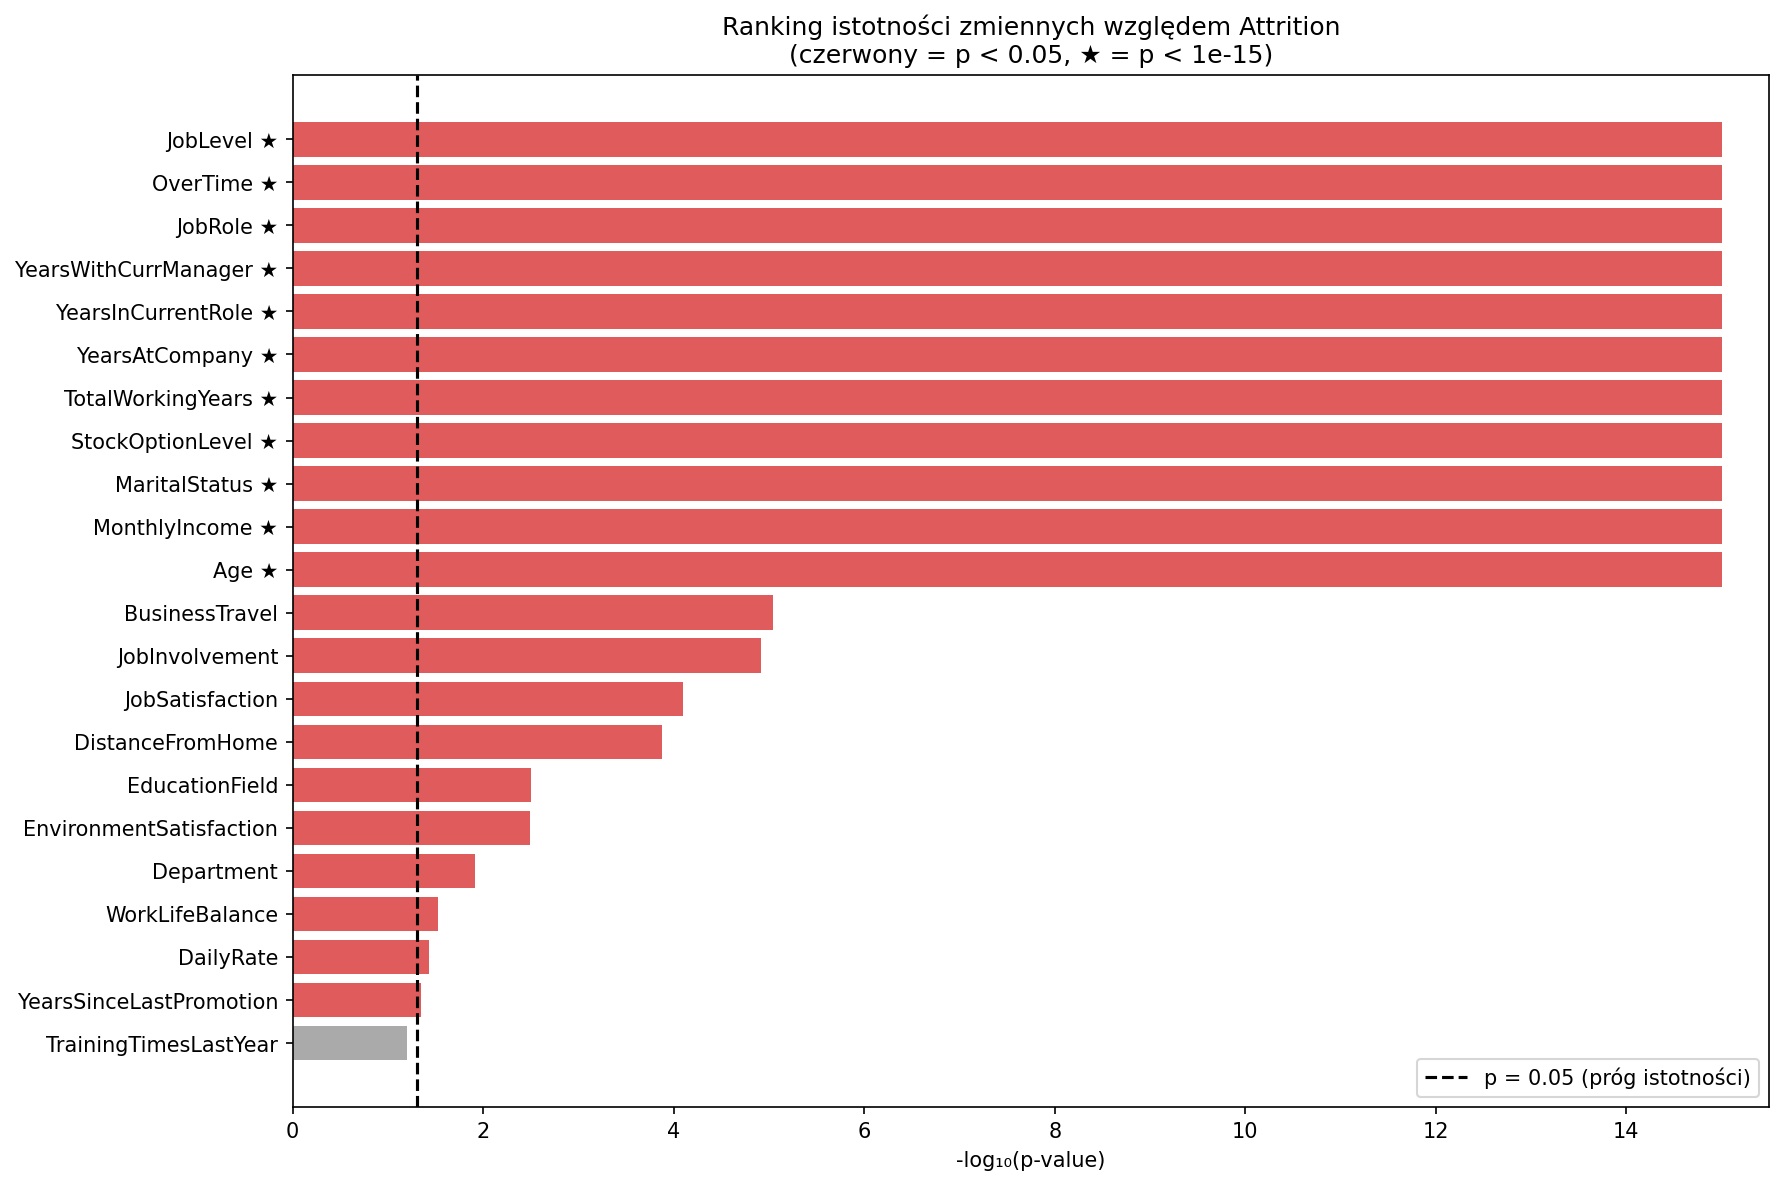
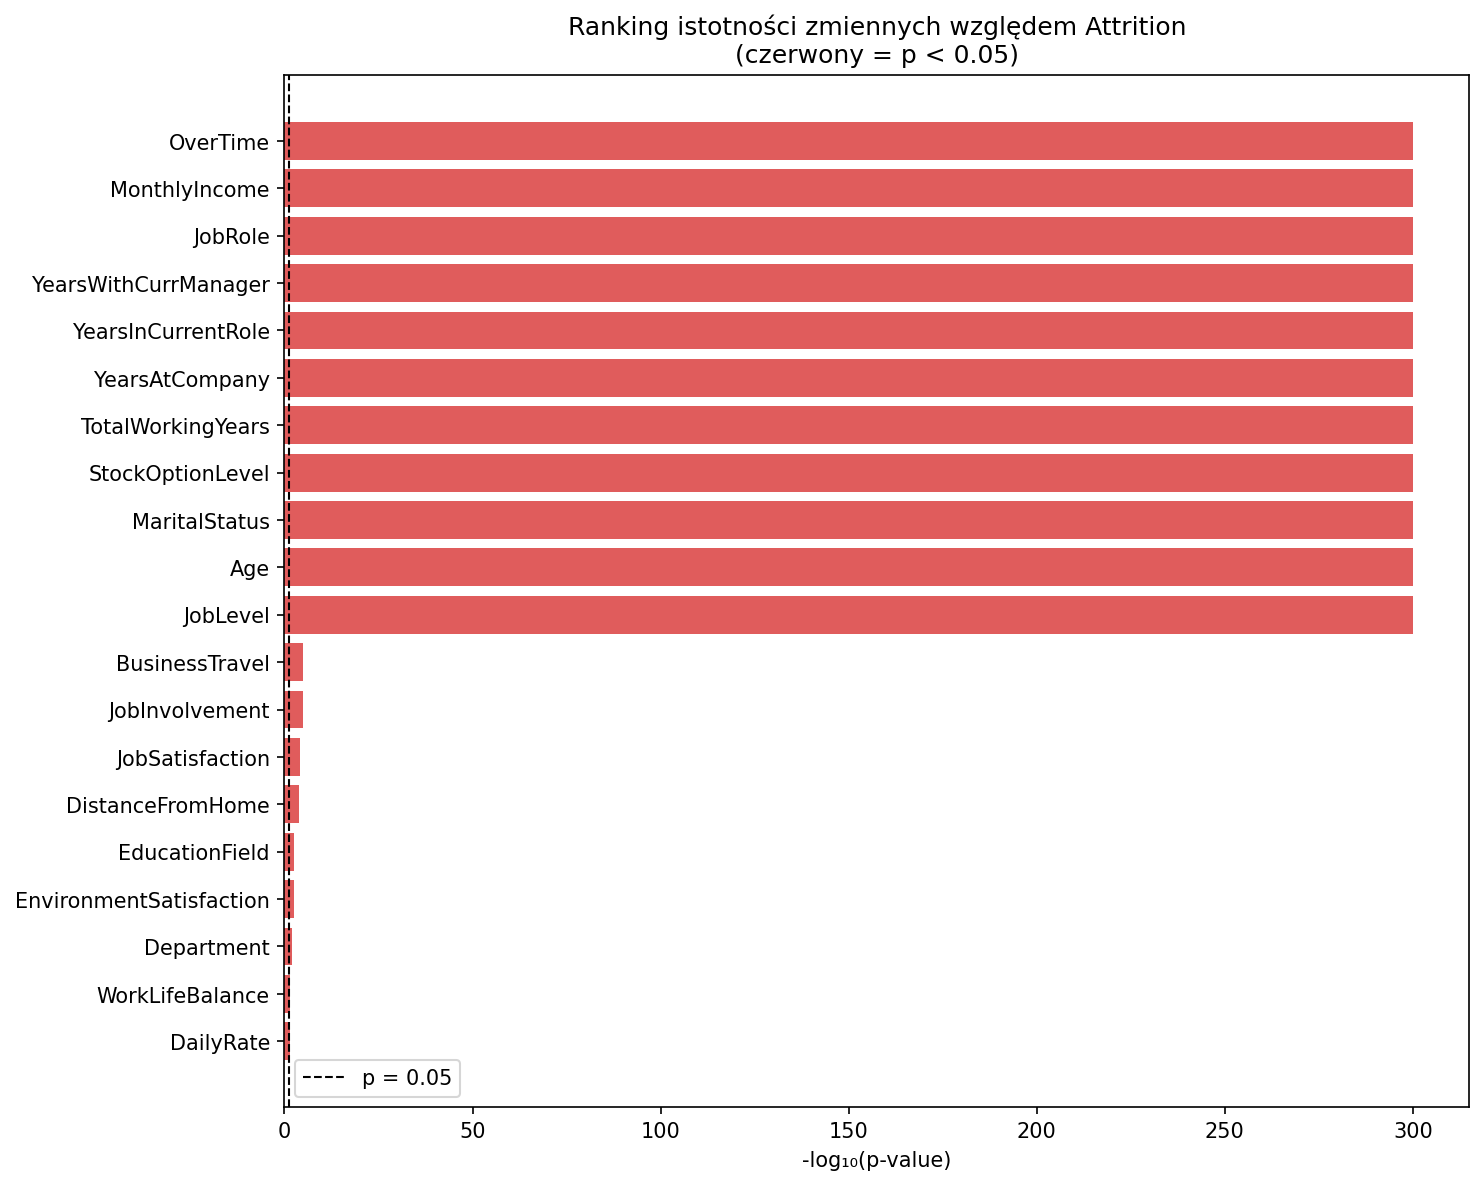
feat: implementacja Stage 3 — analiza korelacji
- Spearman heatmapa dla zmiennych numerycznych + top_correlations.csv
- Cramer's V heatmapa dla zmiennych kategorycznych
- Attrition rate wg top 6 grup (wybór data-driven wg Cramer's V)
- Parallel Coordinates z normalizacją MinMaxScaler
- Usunięto pairplot (zbyt złożony, redundantny)
- Zaktualizowano README i settings.py (DATA/CHARTS_STAGE3_DIR)

diff --git a/src/stage3_correlation/correlation_analysis.py b/src/stage3_correlation/correlation_analysis.py
@@ -1,30 +1,237 @@
 """
-Analiza korelacji i wizualizacje — Osoba 3
+Analiza korelacji i wizualizacje — Stage 3
 
 Zakres:
 - Macierz korelacji Spearmana dla zmiennych numerycznych:
-    * heatmapa interaktywna (Plotly)
+    * heatmapa
     * top 10 zmiennych najbardziej skorelowanych z Attrition
 - Korelacja między zmiennymi kategorycznymi:
     * Cramer's V — heatmapa asocjacji
-- Scatter matrix (scatter_matrix / pair plot) dla wybranych kluczowych zmiennych,
+- Scatter matrix (pair plot) dla top zmiennych numerycznych,
   z kolorowaniem wg Attrition
 - Parallel Coordinates — wizualizacja profili pracowników odchodzących vs pozostających
 - Analiza Attrition rate wg grup:
     * wg Department, JobRole, MaritalStatus, OverTime, BusinessTravel
     * wykresy słupkowe z % odejść
 
-Wejście: oczyszczony df z data_preprocessing.clean_data()
-Wyjście: interaktywne wykresy Plotly
-
-Wskazówka: do korelacji z Attrition zakoduj ją binarnie (Yes=1, No=0)
-           i używaj tylko wierszy bez braków w tej kolumnie
+Wejście: oczyszczony df z preprocessing.clean_data()
+Wyjście: wykresy PNG + CSV z top korelacjami
 """
 
+import math
+import numpy as np
 import pandas as pd
+import matplotlib.pyplot as plt
+import seaborn as sns
+from scipy.stats import chi2_contingency
+from sklearn.preprocessing import MinMaxScaler
 
+from src.settings import CHARTS_STAGE3_DIR, DATA_STAGE3_DIR
+
+
+# ---------------------------------------------------------------------------
+# Helpers
+# ---------------------------------------------------------------------------
+
+def _prepare(df: pd.DataFrame) -> pd.DataFrame:
+    """Filtruje wiersze z brakami Attrition i koduje go binarnie."""
+    df = df[df['Attrition'].notna()].copy()
+    df['Attrition_bin'] = (df['Attrition'] == 'Yes').astype(int)
+    return df
+
+
+def _numeric_cols(df: pd.DataFrame) -> list[str]:
+    return df.select_dtypes(include='number').columns.tolist()
+
+
+
+def _cramers_v(x: pd.Series, y: pd.Series) -> float:
+    """Cramer's V — miara siły związku między dwiema zmiennymi kategorycznymi (zakres 0–1).
+
+    1. Tworzy tablicę krzyżową (ile razy każda para kategorii wystąpiła razem).
+    2. Liczy test chi-kwadrat — sprawdza czy rozkład różni się od niezależnego.
+    3. Normalizuje wynik chi2 do przedziału 0–1 wzorem: sqrt(chi2 / (n * k))
+       gdzie n = liczba obserwacji, k = min(wiersze, kolumny) - 1.
+    Wynik 0 = brak związku, 1 = pełny związek.
+    """
+    confusion = pd.crosstab(x, y)
+    chi2, _, _, _ = chi2_contingency(confusion)
+    n = confusion.sum().sum()
+    k = min(confusion.shape) - 1
+    return float(np.sqrt(chi2 / (n * k))) if k > 0 else 0.0
+
+
+# ---------------------------------------------------------------------------
+# 1. Macierz korelacji Spearmana
+# ---------------------------------------------------------------------------
+
+def plot_spearman_heatmap(df: pd.DataFrame) -> None:
+    """Heatmapa korelacji Spearmana dla zmiennych numerycznych (razem z Attrition_bin)."""
+    num_cols = _numeric_cols(df)
+    corr = df[num_cols].corr(method='spearman')
+
+    fig, ax = plt.subplots(figsize=(16, 14))
+    mask = np.triu(np.ones_like(corr, dtype=bool))
+    sns.heatmap(
+        corr, mask=mask, annot=True, fmt='.2f', cmap='coolwarm',
+        center=0, linewidths=0.4, annot_kws={'size': 7},
+        vmin=-1, vmax=1, ax=ax,
+    )
+    ax.set_title('Macierz korelacji Spearmana (zmienne numeryczne)', fontsize=13)
+    plt.tight_layout()
+    plt.savefig(CHARTS_STAGE3_DIR / 'spearman_heatmap.png', dpi=150, bbox_inches='tight')
+    plt.close()
+    print('[stage3] Zapisano: spearman_heatmap.png')
+
+
+def save_top_correlations(df: pd.DataFrame, top_n: int = 10) -> None:
+    """Zapisuje top N zmiennych najsilniej skorelowanych z Attrition (Spearman)."""
+    num_cols = _numeric_cols(df)
+    corr = df[num_cols].corr(method='spearman')
+
+    top = (
+        corr['Attrition_bin']
+        .drop('Attrition_bin')
+        .abs()
+        .sort_values(ascending=False)
+        .head(top_n)
+        .reset_index()
+    )
+    top.columns = ['kolumna', 'korelacja_abs']
+    top['korelacja'] = corr.loc[top['kolumna'], 'Attrition_bin'].values
+
+    DATA_STAGE3_DIR.mkdir(parents=True, exist_ok=True)
+    top.to_csv(DATA_STAGE3_DIR / 'top_correlations.csv', index=False)
+    print(f'[stage3] Zapisano: top_correlations.csv ({top_n} kolumn)')
+    print(top.to_string(index=False))
+
+
+# ---------------------------------------------------------------------------
+# 2. Cramer's V — heatmapa asocjacji kategorycznych
+# ---------------------------------------------------------------------------
+
+def plot_cramers_v_heatmap(df: pd.DataFrame) -> None:
+    """Heatmapa siły związku (Cramer's V) między zmiennymi kategorycznymi."""
+    cat_cols = df.select_dtypes(include='object').columns.tolist()
+    v_matrix = pd.DataFrame(index=cat_cols, columns=cat_cols, dtype=float)
+
+    for col_a in cat_cols:
+        for col_b in cat_cols:
+            v_matrix.loc[col_a, col_b] = _cramers_v(df[col_a], df[col_b])
+
+    fig, ax = plt.subplots(figsize=(12, 10))
+    mask = np.triu(np.ones_like(v_matrix, dtype=bool))
+    sns.heatmap(
+        v_matrix.astype(float), mask=mask, annot=True, fmt='.2f',
+        cmap='YlOrRd', vmin=0, vmax=1, linewidths=0.4,
+        annot_kws={'size': 8}, ax=ax,
+    )
+    ax.set_title("Cramer's V — siła związku między zmiennymi kategorycznymi", fontsize=13)
+    plt.tight_layout()
+    plt.savefig(CHARTS_STAGE3_DIR / 'cramers_v_heatmap.png', dpi=150, bbox_inches='tight')
+    plt.close()
+    print("[stage3] Zapisano: cramers_v_heatmap.png")
+
+
+# ---------------------------------------------------------------------------
+# 3. Attrition rate wg grup
+# ---------------------------------------------------------------------------
+
+def plot_attrition_rate_by_groups(df: pd.DataFrame, top_n: int = 6) -> None:
+    """Wykresy słupkowe % odejść wg top N zmiennych kategorycznych (wg Cramer's V z Attrition)."""
+    cat_cols = df.select_dtypes(include='object').columns.difference(['Attrition']).tolist()
+    group_cols = sorted(cat_cols, key=lambda c: _cramers_v(df[c], df['Attrition']), reverse=True)[:top_n]
+    print(f'[stage3] Attrition rate — top {top_n} kategorycznych (Cramer\'s V): {group_cols}')
+
+    n_cols = 3
+    n_rows = math.ceil(top_n / n_cols)
+    fig, axes = plt.subplots(n_rows, n_cols, figsize=(20, 5 * n_rows))
+    axes = axes.flatten()
+
+    for i, col in enumerate(group_cols):
+        rates = (
+            df.groupby(col)['Attrition_bin']
+            .mean()
+            .mul(100)
+            .sort_values(ascending=True)
+        )
+        bars = axes[i].barh(rates.index, rates.values, color='#e05c5c')
+        axes[i].set_xlabel('Attrition rate (%)')
+        axes[i].set_title(f'Attrition rate wg {col}')
+        axes[i].set_xlim(0, rates.max() * 1.15)
+
+        for bar, val in zip(bars, rates.values):
+            axes[i].text(
+                val + 0.5, bar.get_y() + bar.get_height() / 2,
+                f'{val:.1f}%', va='center', fontsize=9,
+            )
+
+    for j in range(len(group_cols), len(axes)):
+        axes[j].set_visible(False)
+    fig.suptitle('Attrition rate wg grup demograficznych i zawodowych', fontsize=14)
+    plt.tight_layout()
+    plt.savefig(CHARTS_STAGE3_DIR / 'attrition_rate_by_groups.png', dpi=150, bbox_inches='tight')
+    plt.close()
+    print('[stage3] Zapisano: attrition_rate_by_groups.png')
+
+
+# ---------------------------------------------------------------------------
+# 4. Parallel Coordinates
+# ---------------------------------------------------------------------------
+
+def plot_parallel_coordinates(df: pd.DataFrame, top_n: int = 6) -> None:
+    """Parallel coordinates — profile pracowników odchodzących vs pozostających."""
+    num_cols = _numeric_cols(df)
+    corr_with_attrition = (
+        df[num_cols].corr(method='spearman')['Attrition_bin']
+        .drop('Attrition_bin')
+        .abs()
+        .sort_values(ascending=False)
+    )
+    top_cols = corr_with_attrition.head(top_n).index.tolist()
+
+    # Normalizacja do [0, 1] żeby osie były porównywalne
+    subset = df[top_cols + ['Attrition']].copy()
+    subset[top_cols] = MinMaxScaler().fit_transform(subset[top_cols])
+
+    fig, ax = plt.subplots(figsize=(14, 6))
+    colors = {'Yes': '#e05c5c', 'No': '#4c8cbf'}
+    alphas = {'Yes': 0.4, 'No': 0.1}
+
+    for attrition_val in ['No', 'Yes']:
+        group = subset[subset['Attrition'] == attrition_val][top_cols]
+        for _, row in group.iterrows():
+            ax.plot(top_cols, row.values, color=colors[attrition_val],
+                    alpha=alphas[attrition_val], linewidth=0.6)
+
+    # Linie legendy
+    for val, color in colors.items():
+        ax.plot([], [], color=color, linewidth=2, label=f'Attrition={val}')
+
+    ax.set_xticks(range(len(top_cols)))
+    ax.set_xticklabels(top_cols, rotation=20, ha='right')
+    ax.set_ylabel('Wartość znormalizowana [0–1]')
+    ax.set_title(f'Parallel Coordinates — profile pracowników (top {top_n} zmiennych)', fontsize=13)
+    ax.legend()
+    plt.tight_layout()
+    plt.savefig(CHARTS_STAGE3_DIR / 'parallel_coordinates.png', dpi=150, bbox_inches='tight')
+    plt.close()
+    print('[stage3] Zapisano: parallel_coordinates.png')
+
+
+# ---------------------------------------------------------------------------
+# Punkt wejścia
+# ---------------------------------------------------------------------------
 
 def run(df: pd.DataFrame) -> None:
     """Uruchamia analizę korelacji i generuje wizualizacje."""
-    # TODO: implementacja
-    raise NotImplementedError
+    CHARTS_STAGE3_DIR.mkdir(parents=True, exist_ok=True)
+    DATA_STAGE3_DIR.mkdir(parents=True, exist_ok=True)
+
+    df = _prepare(df)
+
+    plot_spearman_heatmap(df)
+    save_top_correlations(df)
+    plot_cramers_v_heatmap(df)
+    plot_attrition_rate_by_groups(df)
+    plot_parallel_coordinates(df)

diff --git a/src/settings.py b/src/settings.py
@@ -11,6 +11,7 @@ except NameError:
 DATA_DIR = PROJECT_ROOT / "data"
 DATA_STAGE1_DIR = DATA_DIR / "stage1_preprocessing"
 DATA_STAGE2_DIR = DATA_DIR / "stage2_descriptive"
+DATA_STAGE3_DIR = DATA_DIR / "stage3_correlation"
 REPORTS_DIR = PROJECT_ROOT / "reports"
 CHARTS_DIR = PROJECT_ROOT / "charts"
 CHARTS_MSNO_DIR = CHARTS_DIR / "msno"
@@ -18,6 +19,7 @@ CHARTS_AGE_DIR = CHARTS_DIR / "age"
 CHARTS_MONTHLY_INCOME_DIR = CHARTS_DIR / "monthly_income"
 CHARTS_KNN_DIR = CHARTS_DIR / "knn"
 CHARTS_STAGE2_DIR = CHARTS_DIR / "stage2_descriptive"
+CHARTS_STAGE3_DIR = CHARTS_DIR / "stage3_correlation"
 DATASET_FILENAME = "HR.csv"
 REPORT_FILENAME = "HR_profiling_report.html"
 

diff --git a/README.md b/README.md
@@ -170,15 +170,32 @@ Projekt zrealizowany samodzielnie — obejmuje wszystkie 4 etapy pipeline'u anal
 
 **Zadania:**
 - Macierz korelacji Spearmana dla zmiennych numerycznych — heatmapa
-- Top 10 zmiennych najbardziej skorelowanych z `Attrition`
-- Cramer's V — macierz asocjacji zmiennych kategorycznych
-- Scatter matrix dla kluczowych zmiennych z kolorowaniem wg `Attrition`
-- Parallel Coordinates — profile pracowników odchodzących vs pozostających
-- Attrition rate wg grup: `Department`, `JobRole`, `MaritalStatus`, `OverTime`, `BusinessTravel`, `Gender`, `EducationField`
-- Wykresy: nadgodziny, stan cywilny, podróż służbowa, odległość od domu, łączne lata pracy, liczba firm
+- Top 10 zmiennych najbardziej skorelowanych z `Attrition` → `top_correlations.csv`
+- Cramer's V — macierz asocjacji zmiennych kategorycznych (tylko `object` kolumny)
+- Attrition rate wg top 6 grup kategorycznych (wybór data-driven wg Cramer's V): `JobRole`, `OverTime`, `MaritalStatus`, `BusinessTravel`, `EducationField`, `Department`
+- Parallel Coordinates — znormalizowane profile pracowników odchodzących vs pozostających (top 6 zmiennych wg Spearmana)
+
+**Macierz korelacji Spearmana:**
+
+![spearman heatmap](charts/stage3_correlation/spearman_heatmap.png)
+
+**Cramer's V — siła związku między zmiennymi kategorycznymi:**
+
+![cramers v](charts/stage3_correlation/cramers_v_heatmap.png)
+
+**Attrition rate wg grup (top 6 wg Cramer's V z Attrition):**
+
+![attrition rate](charts/stage3_correlation/attrition_rate_by_groups.png)
+
+**Parallel Coordinates — profile pracowników:**
+
+![parallel coordinates](charts/stage3_correlation/parallel_coordinates.png)
+
+**Artefakty w `data/stage3_correlation/`:**
+- `top_correlations.csv` — top 10 zmiennych numerycznych najsilniej skorelowanych z Attrition (Spearman)
 
 📥 **Wejście:** [`HR_clean.csv`](data/HR_clean.csv) / oczyszczony `df`  
-📤 **Wyjście:** interaktywne wykresy (Plotly)
+📤 **Wyjście:** wykresy PNG + CSV z top korelacjami
 
 ---
 
@@ -221,9 +238,11 @@ sad_eda_2026/
 │   │   ├── monthlyincome_imputed_rows.csv
 │   │   ├── monthlyincome_imputation_stats.csv
 │   │   └── outliers_summary.csv
-│   └── stage2_descriptive/           # Artefakty Etapu 2
-│       ├── descriptive_stats.csv
-│       └── statistical_tests.csv
+│   ├── stage2_descriptive/           # Artefakty Etapu 2
+│   │   ├── descriptive_stats.csv
+│   │   └── statistical_tests.csv
+│   └── stage3_correlation/           # Artefakty Etapu 3
+│       └── top_correlations.csv
 ├── charts/
 │   ├── msno/                         # Wykresy braków (missingno)
 │   ├── age/                          # Analiza imputacji Age
@@ -238,6 +257,10 @@ sad_eda_2026/
 │   │   ├── violinplots_by_attrition.png
 │   │   └── statistical_tests_ranking.png
 │   ├── stage3_correlation/           # Wykresy Etap 3
+│   │   ├── spearman_heatmap.png
+│   │   ├── cramers_v_heatmap.png
+│   │   ├── attrition_rate_by_groups.png
+│   │   └── parallel_coordinates.png
 │   └── stage4_preparation/           # Wykresy Etap 4
 ├── reports/
 │   └── HR_profiling_report.html      # Automatyczny raport (ydata_profiling)